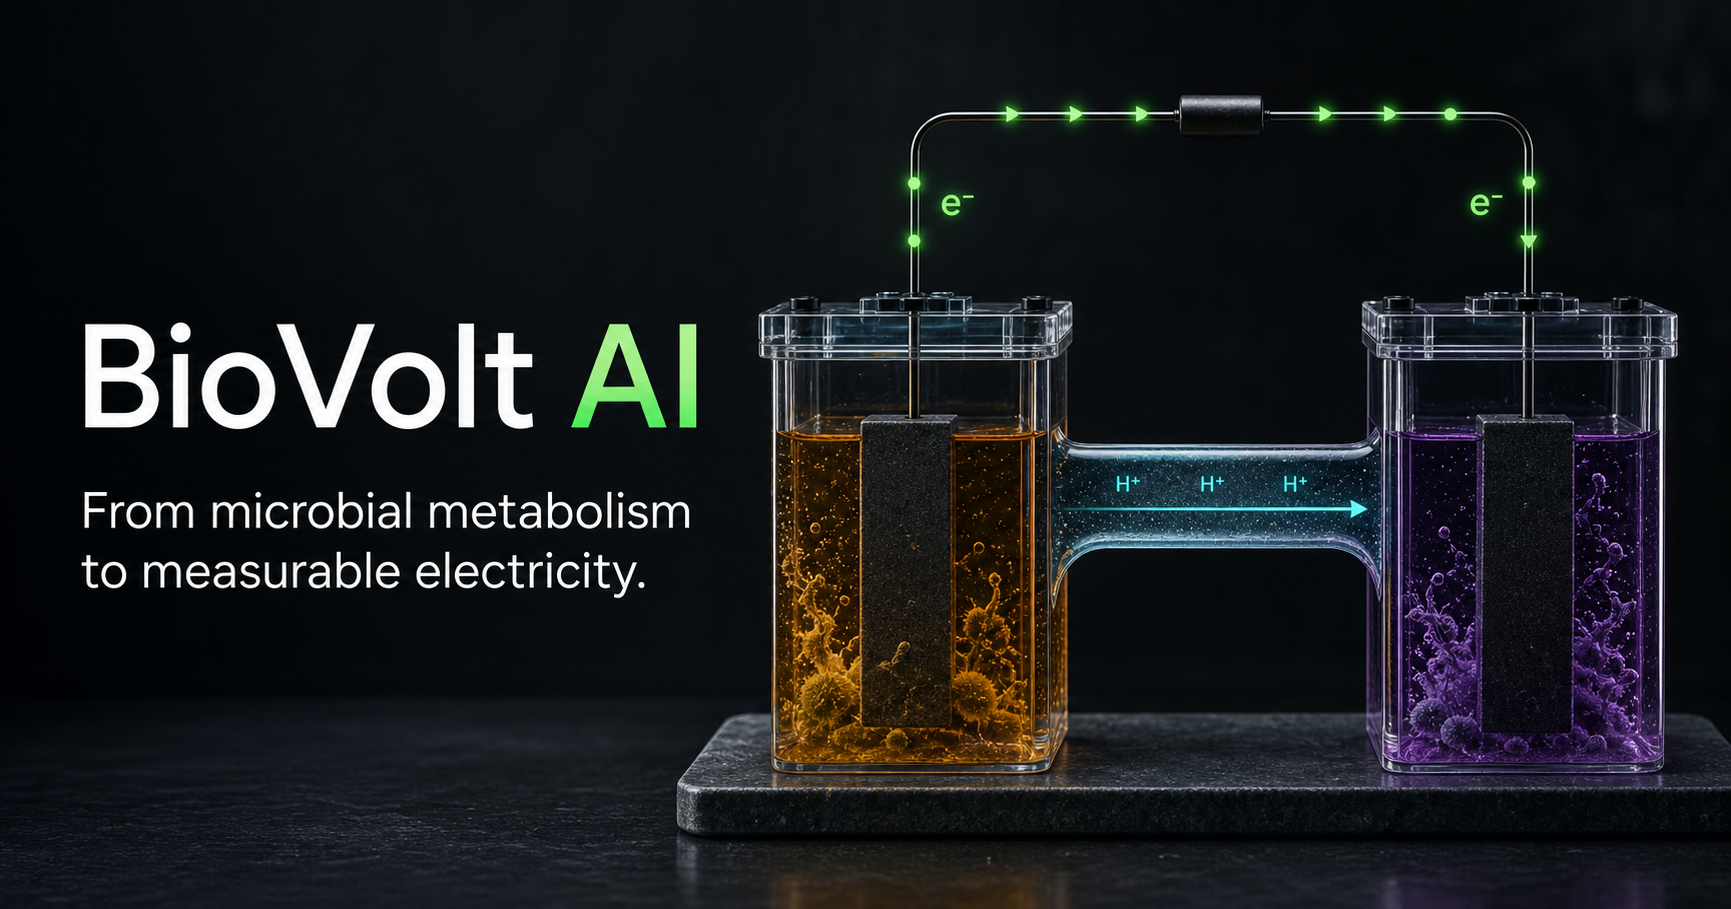
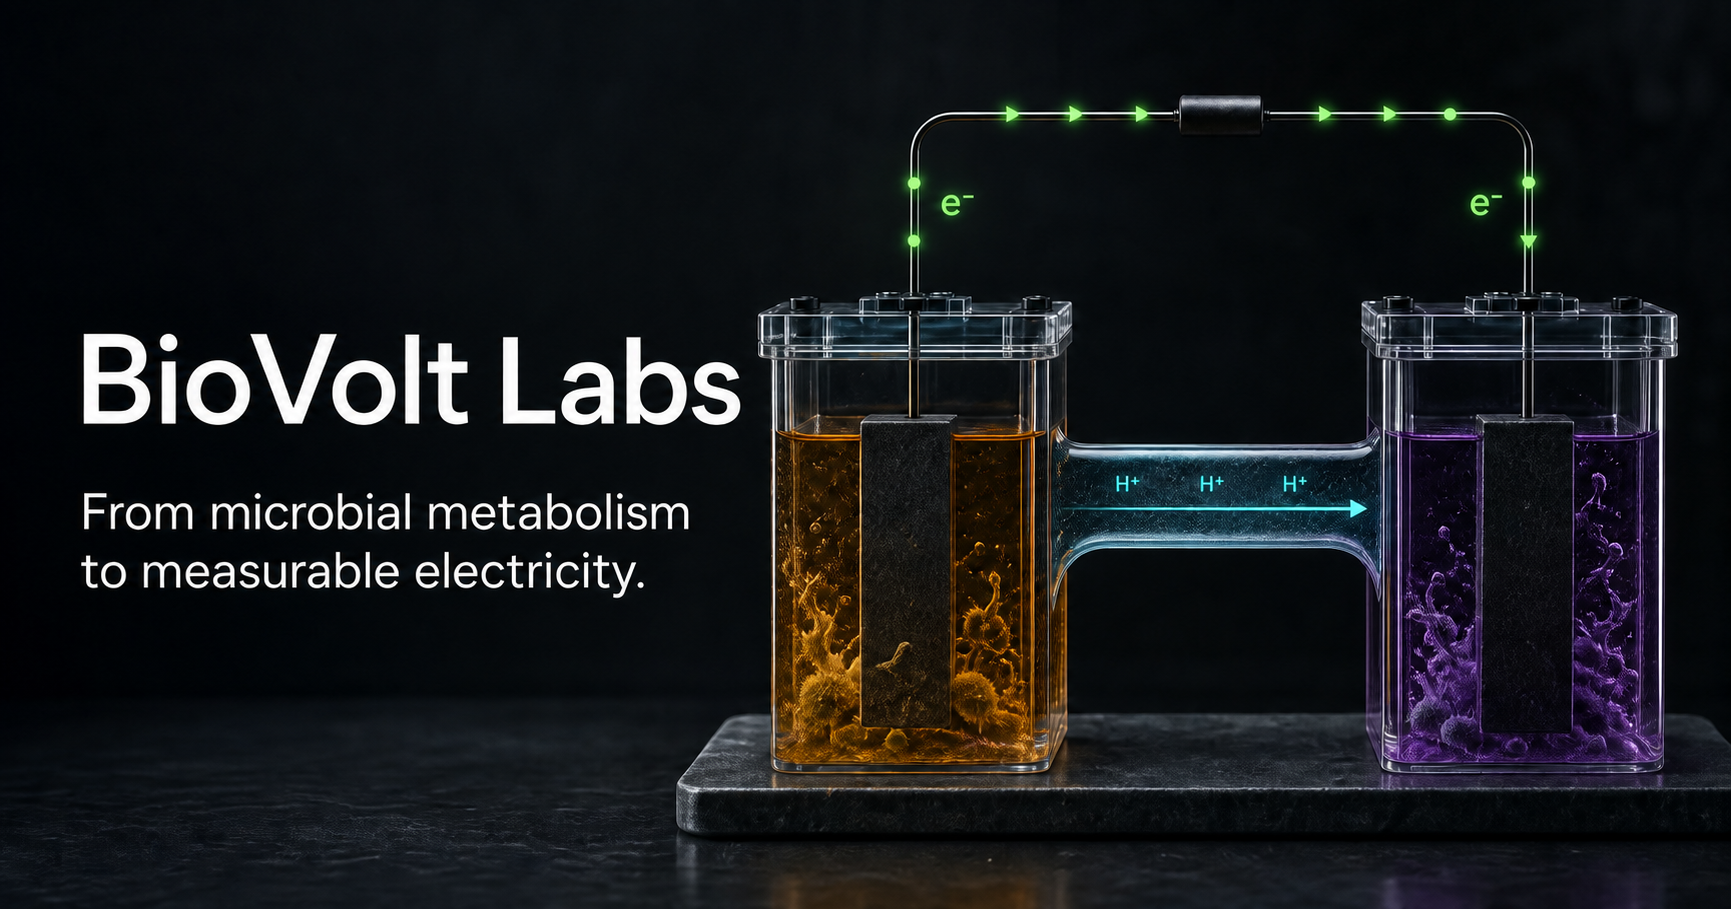
Rebrand website as BioVolt Labs

diff --git a/app/BioVoltExperience.tsx b/app/BioVoltExperience.tsx
@@ -50,9 +50,9 @@ export function SiteHeader({ active, staticMode = false, overHero = false }: {
 }) {
   return (
     <header className={`site-header ${overHero ? "site-header--hero" : ""}`}>
-      <a className="brand" href={pageHref("home", staticMode)} aria-label="BioVolt AI home">
+      <a className="brand" href={pageHref("home", staticMode)} aria-label="BioVolt Labs home">
         <span className="brand-mark">BV</span>
-        <span className="brand-copy"><strong>BioVolt AI</strong><small>MFC research intelligence</small></span>
+        <span className="brand-copy"><strong>BioVolt Labs</strong><small>MFC research intelligence</small></span>
       </a>
       <nav className="primary-nav" aria-label="Primary navigation">
         {navItems.map((item) => (
@@ -70,7 +70,7 @@ export function SiteFooter({ staticMode = false }: { staticMode?: boolean }) {
   return (
     <footer className="journal-footer">
       <div className="footer-topline">
-        <a className="footer-brand" href={pageHref("home", staticMode)}><span>BV</span> BioVolt AI</a>
+        <a className="footer-brand" href={pageHref("home", staticMode)}><span>BV</span> BioVolt Labs</a>
         <p>Independent research platform / Edition 01 / 2026</p>
       </div>
       <div className="footer-grid">
@@ -86,7 +86,7 @@ export function SiteFooter({ staticMode = false }: { staticMode?: boolean }) {
         <div>
           <p className="footer-kicker">Research profiles</p>
           <div className="social-row" aria-label="Research profiles">
-            <a href="https://github.com/YatharthSharma01/biovolt-ai" target="_blank" rel="noreferrer" aria-label="BioVolt AI on GitHub">GH</a>
+            <a href="https://github.com/YatharthSharma01/biovolt-ai" target="_blank" rel="noreferrer" aria-label="BioVolt Labs on GitHub">GH</a>
             <a href="https://www.linkedin.com/in/yatharth-sharma-a13395288/" target="_blank" rel="noreferrer" aria-label="Yatharth Sharma on LinkedIn">in</a>
             <span aria-label="X profile link pending" title="Profile link pending">X</span>
           </div>
@@ -141,7 +141,7 @@ export function PageMasthead({ number, kicker, title, abstract }: { number: stri
     <section className="page-masthead">
       <div className="masthead-number">{number}</div>
       <div className="masthead-copy"><p className="journal-kicker">{kicker}</p><h1>{title}</h1><p className="masthead-abstract"><b>Abstract.</b> {abstract}</p></div>
-      <aside><span>BioVolt AI</span><span>Research edition 01</span></aside>
+      <aside><span>BioVolt Labs</span><span>Research edition 01</span></aside>
     </section>
   );
 }
@@ -183,7 +183,7 @@ export function HomeView({ staticMode = false }: { staticMode?: boolean }) {
       <article className="paper-spread home-abstract">
         <SectionLabel number="00.1">Editorial abstract</SectionLabel>
         <div className="lead-copy">
-          <p className="drop-cap">Microbial fuel cells convert microbial metabolism into electrical current while treating organic matter. BioVolt AI is being built to make that complex system observable, comparable and eventually predictable.</p>
+          <p className="drop-cap">Microbial fuel cells convert microbial metabolism into electrical current while treating organic matter. BioVolt Labs is being built to make that complex system observable, comparable and eventually predictable.</p>
           <p>For now, the platform behaves like a carefully annotated research manuscript: every value is labelled by origin, uncertainty is visible, and illustrative model outputs are never presented as experimental truth.</p>
         </div>
         <aside className="margin-note"><b>Research principle</b><p>No prediction without provenance. No recommendation beyond the evidence domain.</p></aside>
@@ -268,7 +268,7 @@ export function ResearchView({ staticMode = false }: { staticMode?: boolean }) {
           {[['Biology','Organism / inoculum / mediator'],['Reactor','Architecture / volume / membrane'],['Operation','pH / temperature / HRT / resistance'],['Electrochemistry','Voltage / current / power density'],['Treatment','COD in / COD out / removal'],['Quality','Replicates / uncertainty / validation']].map(([group, fields]) => <div role="row" key={group}><b role="cell">{group}</b><span role="cell">{fields}</span><i role="cell">Required</i></div>)}
         </div>
       </section>
-      <section className="paper-spread editorial-note"><SectionLabel number="01.3">Editorial &amp; access policy</SectionLabel><blockquote>The library publishes analysis, not copies of the papers.</blockquote><p>BioVolt AI links to DOI or publisher records and displays original summaries, citations and selected reported measurements. The article “Halophilic Starch-Degrading Bacteria Isolated from Sambhar Lake, India” was reviewed for research purposes but is not hosted because a redistribution licence was not confirmed.</p></section>
+      <section className="paper-spread editorial-note"><SectionLabel number="01.3">Editorial &amp; access policy</SectionLabel><blockquote>The library publishes analysis, not copies of the papers.</blockquote><p>BioVolt Labs links to DOI or publisher records and displays original summaries, citations and selected reported measurements. The article “Halophilic Starch-Degrading Bacteria Isolated from Sambhar Lake, India” was reviewed for research purposes but is not hosted because a redistribution licence was not confirmed.</p></section>
       <NextArticle page="experiment" label="02 — College experiment" staticMode={staticMode} />
       <SiteFooter staticMode={staticMode} />
     </main>
@@ -578,8 +578,8 @@ export function AboutView({ staticMode = false }: { staticMode?: boolean }) {
   return (
     <main className="site-shell paper-page">
       <SiteHeader active="about" staticMode={staticMode} />
-      <PageMasthead number="05" kicker="Project method / open research infrastructure" title="Build slowly enough to remain scientifically useful." abstract="BioVolt AI is a flagship project whose credibility will be built on traceable evidence, disciplined data collection, and models that clearly acknowledge uncertainty." />
-      <section className="paper-spread manifesto"><SectionLabel number="05.1">Manifesto</SectionLabel><p>BioVolt AI should feel advanced without pretending that sparse historical evidence is a production-ready digital twin. The platform therefore separates the research archive, experimental record and predictive layer—and keeps their provenance visible.</p><aside><span>01</span><b>Evidence before automation.</b><span>02</span><b>Uncertainty before certainty.</b><span>03</span><b>Reproducibility before scale.</b></aside></section>
+      <PageMasthead number="05" kicker="Project method / open research infrastructure" title="Build slowly enough to remain scientifically useful." abstract="BioVolt Labs is a flagship project whose credibility will be built on traceable evidence, disciplined data collection, and models that clearly acknowledge uncertainty." />
+      <section className="paper-spread manifesto"><SectionLabel number="05.1">Manifesto</SectionLabel><p>BioVolt Labs should feel advanced without pretending that sparse historical evidence is a production-ready digital twin. The platform therefore separates the research archive, experimental record and predictive layer—and keeps their provenance visible.</p><aside><span>01</span><b>Evidence before automation.</b><span>02</span><b>Uncertainty before certainty.</b><span>03</span><b>Reproducibility before scale.</b></aside></section>
       <section className="paper-spread roadmap"><SectionLabel number="05.2">Development roadmap</SectionLabel>{[
         ['Now','Research platform','Multipage evidence library, recovered experiment and synthetic twin interface.'],['Next','Data foundation','Verified papers, normalized experiment schema and manual data entry.'],['Then','Validated models','Grouped cross-validation, intervals, importance and anomaly detection.'],['Later','Live MFC','ESP32 sensing, streaming dashboard, alerts and controlled recommendations.']
       ].map(([phase, title, copy], index) => <article key={phase}><span>{String(index + 1).padStart(2,'0')}</span><p>{phase}</p><h2>{title}</h2><div><i /><p>{copy}</p></div></article>)}</section>

diff --git a/app/layout.tsx b/app/layout.tsx
@@ -28,12 +28,12 @@ export async function generateMetadata(): Promise<Metadata> {
   return {
     metadataBase: new URL(origin),
     title: {
-      default: "BioVolt AI",
-      template: "%s | BioVolt AI",
+      default: "BioVolt Labs",
+      template: "%s | BioVolt Labs",
     },
     description:
       "An evidence-led microbial fuel-cell research platform and digital twin.",
-    applicationName: "BioVolt AI",
+    applicationName: "BioVolt Labs",
     authors: [{ name: "Yatharth Sharma" }],
     keywords: [
       "microbial fuel cell",
@@ -44,14 +44,14 @@ export async function generateMetadata(): Promise<Metadata> {
     ],
     openGraph: {
       type: "website",
-      title: "BioVolt AI",
+      title: "BioVolt Labs",
       description: "From microbial metabolism to measurable electricity.",
       url: origin,
-      images: [{ url: socialImage, width: 1733, height: 909, alt: "BioVolt AI double-chamber microbial fuel cell" }],
+      images: [{ url: socialImage, width: 1733, height: 909, alt: "BioVolt Labs double-chamber microbial fuel cell" }],
     },
     twitter: {
       card: "summary_large_image",
-      title: "BioVolt AI",
+      title: "BioVolt Labs",
       description: "From microbial metabolism to measurable electricity.",
       images: [socialImage],
     },

diff --git a/app/researchData.ts b/app/researchData.ts
@@ -50,7 +50,7 @@ export const papers: PaperRecord[] = [
       "Ceramic materials and modular stacks are presented as routes toward more affordable, scalable systems.",
       "Cost, material durability, resistance and operational instability remain central deployment barriers.",
     ],
-    relevance: "Defines the operating variables and system components that BioVolt AI should record before it makes predictions.",
+    relevance: "Defines the operating variables and system components that BioVolt Labs should record before it makes predictions.",
     caveat: "The values synthesize many different reactor types and should not be treated as one comparable experimental dataset.",
     sourcePages: "Supplied PDF 10; article pp. 1–9",
   },
@@ -224,7 +224,7 @@ export const papers: PaperRecord[] = [
       "Sc:PPy reached 12.4 mW/m², while the combined Sc:PPy:Au treatment reached 7.4 mW/m².",
       "Median SECM currents were 2.57 nA for Sc:Au, 0.82 nA for Sc:PPy, 1.74 nA for Sc:PPy:Au and about 1.85 nA for yeast alone.",
     ],
-    relevance: "Shows how surface modification and microbial state can become explicit electrode-level features in later BioVolt AI models.",
+    relevance: "Shows how surface modification and microbial state can become explicit electrode-level features in later BioVolt Labs models.",
     caveat: "A laboratory mediator system with yeast is not directly comparable to mediator-free wastewater MFCs.",
     sourcePages: "Publisher full text and PubMed Central record",
   },
@@ -312,7 +312,7 @@ export const papers: PaperRecord[] = [
       "Five isolates were assigned to Bacillus, Staphylococcus and Virgibacillus groups with reported 99% sequence identity and accessions MG050739–MG050743.",
     ],
     relevance: "The closest literature analogue to the college study because it combines Sambhar Lake halophiles, salinity, starch degradation and a double-chamber MFC.",
-    caveat: "The article file is not hosted on BioVolt AI. Only an original summary, bibliographic metadata and selected reported measurements are shown.",
+    caveat: "The article file is not hosted on BioVolt Labs. Only an original summary, bibliographic metadata and selected reported measurements are shown.",
     sourcePages: "Supplied PDF 11; article pp. 391–398",
   },
   {
@@ -370,7 +370,7 @@ export const papers: PaperRecord[] = [
       "A 500 mL short-circuited MFC reduced approximately 600 mg COD/L to the 125 mg COD/L discharge target in four days; raising electrode-area-to-volume ratio from about 8 to 33 m²/m³ reduced that time to within one day.",
       "Microbial electrolysis batches reported 61–74% coulombic efficiency, while an electrode-free control removed COD at about 16 mg/L/day versus about 80 mg/L/day with the polarized microbial electrode.",
     ],
-    relevance: "Provides a well-contextualized COD benchmark and demonstrates that BioVolt AI must treat power generation and treatment efficiency as separate optimization objectives.",
+    relevance: "Provides a well-contextualized COD benchmark and demonstrates that BioVolt Labs must treat power generation and treatment efficiency as separate optimization objectives.",
     caveat: "Short-circuit and MES operation maximize treatment by giving up harvestable electrical power. The successive batches and COD duplicates support repeatability, but they are not a large independent-reactor dataset and should not be merged directly with modern MFC studies.",
     sourcePages: "Supplied author-deposited manuscript; article pp. 319–326",
   },

diff --git a/github/index.html b/github/index.html
@@ -5,17 +5,17 @@
     <meta name="viewport" content="width=device-width, initial-scale=1.0" />
     <meta
       name="description"
-      content="BioVolt AI is an interactive microbial fuel cell research platform connecting historical experiments, literature evidence and a transparent digital-twin preview."
+      content="BioVolt Labs is an interactive microbial fuel cell research platform connecting historical experiments, literature evidence and a transparent digital-twin preview."
     />
     <meta name="theme-color" content="#07120f" />
-    <meta property="og:title" content="BioVolt AI | MFC Digital Twin" />
+    <meta property="og:title" content="BioVolt Labs | MFC Digital Twin" />
     <meta
       property="og:description"
       content="From microbial metabolism to measurable electricity."
     />
     <meta property="og:image" content="./og.png" />
     <link rel="icon" href="./favicon.svg" />
-    <title>BioVolt AI | From microbial metabolism to measurable electricity</title>
+    <title>BioVolt Labs | From microbial metabolism to measurable electricity</title>
   </head>
   <body data-page="home">
     <div id="root"></div>

diff --git a/app/page.tsx b/app/page.tsx
@@ -2,9 +2,9 @@ import type { Metadata } from "next";
 import { HomeView } from "./BioVoltExperience";
 
 export const metadata: Metadata = {
-  title: "BioVolt AI | From microbial metabolism to measurable electricity",
+  title: "BioVolt Labs | From microbial metabolism to measurable electricity",
   description:
-    "Explore microbial fuel-cell evidence, Yatharth Sharma's historical experiment, and the first BioVolt AI digital-twin preview.",
+    "Explore microbial fuel-cell evidence, Yatharth Sharma's historical experiment, and the first BioVolt Labs digital-twin preview.",
 };
 
 export default function Home() {

diff --git a/github/about.html b/github/about.html
@@ -1,7 +1,7 @@
 <!doctype html>
 <html lang="en"><head>
   <meta charset="UTF-8" /><meta name="viewport" content="width=device-width, initial-scale=1.0" />
-  <meta name="description" content="The evidence policy and development roadmap behind BioVolt AI." />
+  <meta name="description" content="The evidence policy and development roadmap behind BioVolt Labs." />
   <meta name="theme-color" content="#f2efe5" /><meta property="og:image" content="./og.png" />
-  <link rel="icon" href="./favicon.svg" /><title>About the project | BioVolt AI</title>
+  <link rel="icon" href="./favicon.svg" /><title>About the project | BioVolt Labs</title>
 </head><body data-page="about"><div id="root"></div><script type="module" src="./main.tsx"></script></body></html>

diff --git a/github/research.html b/github/research.html
@@ -1,7 +1,7 @@
 <!doctype html>
 <html lang="en"><head>
   <meta charset="UTF-8" /><meta name="viewport" content="width=device-width, initial-scale=1.0" />
-  <meta name="description" content="BioVolt AI structured microbial fuel-cell literature register." />
+  <meta name="description" content="BioVolt Labs structured microbial fuel-cell literature register." />
   <meta name="theme-color" content="#f2efe5" /><meta property="og:image" content="./og.png" />
-  <link rel="icon" href="./favicon.svg" /><title>Research library | BioVolt AI</title>
+  <link rel="icon" href="./favicon.svg" /><title>Research library | BioVolt Labs</title>
 </head><body data-page="research"><div id="root"></div><script type="module" src="./main.tsx"></script></body></html>

diff --git a/app/about/page.tsx b/app/about/page.tsx
@@ -3,7 +3,7 @@ import { AboutView } from "../BioVoltExperience";
 
 export const metadata: Metadata = {
   title: "About the project",
-  description: "The evidence policy and development roadmap behind BioVolt AI.",
+  description: "The evidence policy and development roadmap behind BioVolt Labs.",
 };
 
 export default function AboutPage() {

diff --git a/app/research/page.tsx b/app/research/page.tsx
@@ -3,7 +3,7 @@ import { ResearchView } from "../BioVoltExperience";
 
 export const metadata: Metadata = {
   title: "Research library",
-  description: "A structured microbial fuel-cell literature register for BioVolt AI.",
+  description: "A structured microbial fuel-cell literature register for BioVolt Labs.",
 };
 
 export default function ResearchPage() {

diff --git a/github/calculator.html b/github/calculator.html
@@ -3,5 +3,5 @@
   <meta charset="UTF-8" /><meta name="viewport" content="width=device-width, initial-scale=1.0" />
   <meta name="description" content="Calculate microbial fuel-cell electricity and COD removal from measurements, with evidence-gated literature comparison." />
   <meta name="theme-color" content="#f2efe5" /><meta property="og:image" content="./og.png" />
-  <link rel="icon" href="./favicon.svg" /><title>MFC calculator | BioVolt AI</title>
+  <link rel="icon" href="./favicon.svg" /><title>MFC calculator | BioVolt Labs</title>
 </head><body data-page="calculator"><div id="root"></div><script type="module" src="./main.tsx"></script></body></html>

diff --git a/github/digital-twin.html b/github/digital-twin.html
@@ -3,5 +3,5 @@
   <meta charset="UTF-8" /><meta name="viewport" content="width=device-width, initial-scale=1.0" />
   <meta name="description" content="An explainable microbial fuel-cell digital-twin interface preview." />
   <meta name="theme-color" content="#f2efe5" /><meta property="og:image" content="./og.png" />
-  <link rel="icon" href="./favicon.svg" /><title>Intelligence for living electricity | BioVolt AI</title>
+  <link rel="icon" href="./favicon.svg" /><title>Intelligence for living electricity | BioVolt Labs</title>
 </head><body data-page="twin"><div id="root"></div><script type="module" src="./main.tsx"></script></body></html>

diff --git a/github/experiment.html b/github/experiment.html
@@ -3,5 +3,5 @@
   <meta charset="UTF-8" /><meta name="viewport" content="width=device-width, initial-scale=1.0" />
   <meta name="description" content="Yatharth Sharma's recovered microbial fuel-cell experimental record." />
   <meta name="theme-color" content="#f2efe5" /><meta property="og:image" content="./og.png" />
-  <link rel="icon" href="./favicon.svg" /><title>College experiment | BioVolt AI</title>
+  <link rel="icon" href="./favicon.svg" /><title>College experiment | BioVolt Labs</title>
 </head><body data-page="experiment"><div id="root"></div><script type="module" src="./main.tsx"></script></body></html>